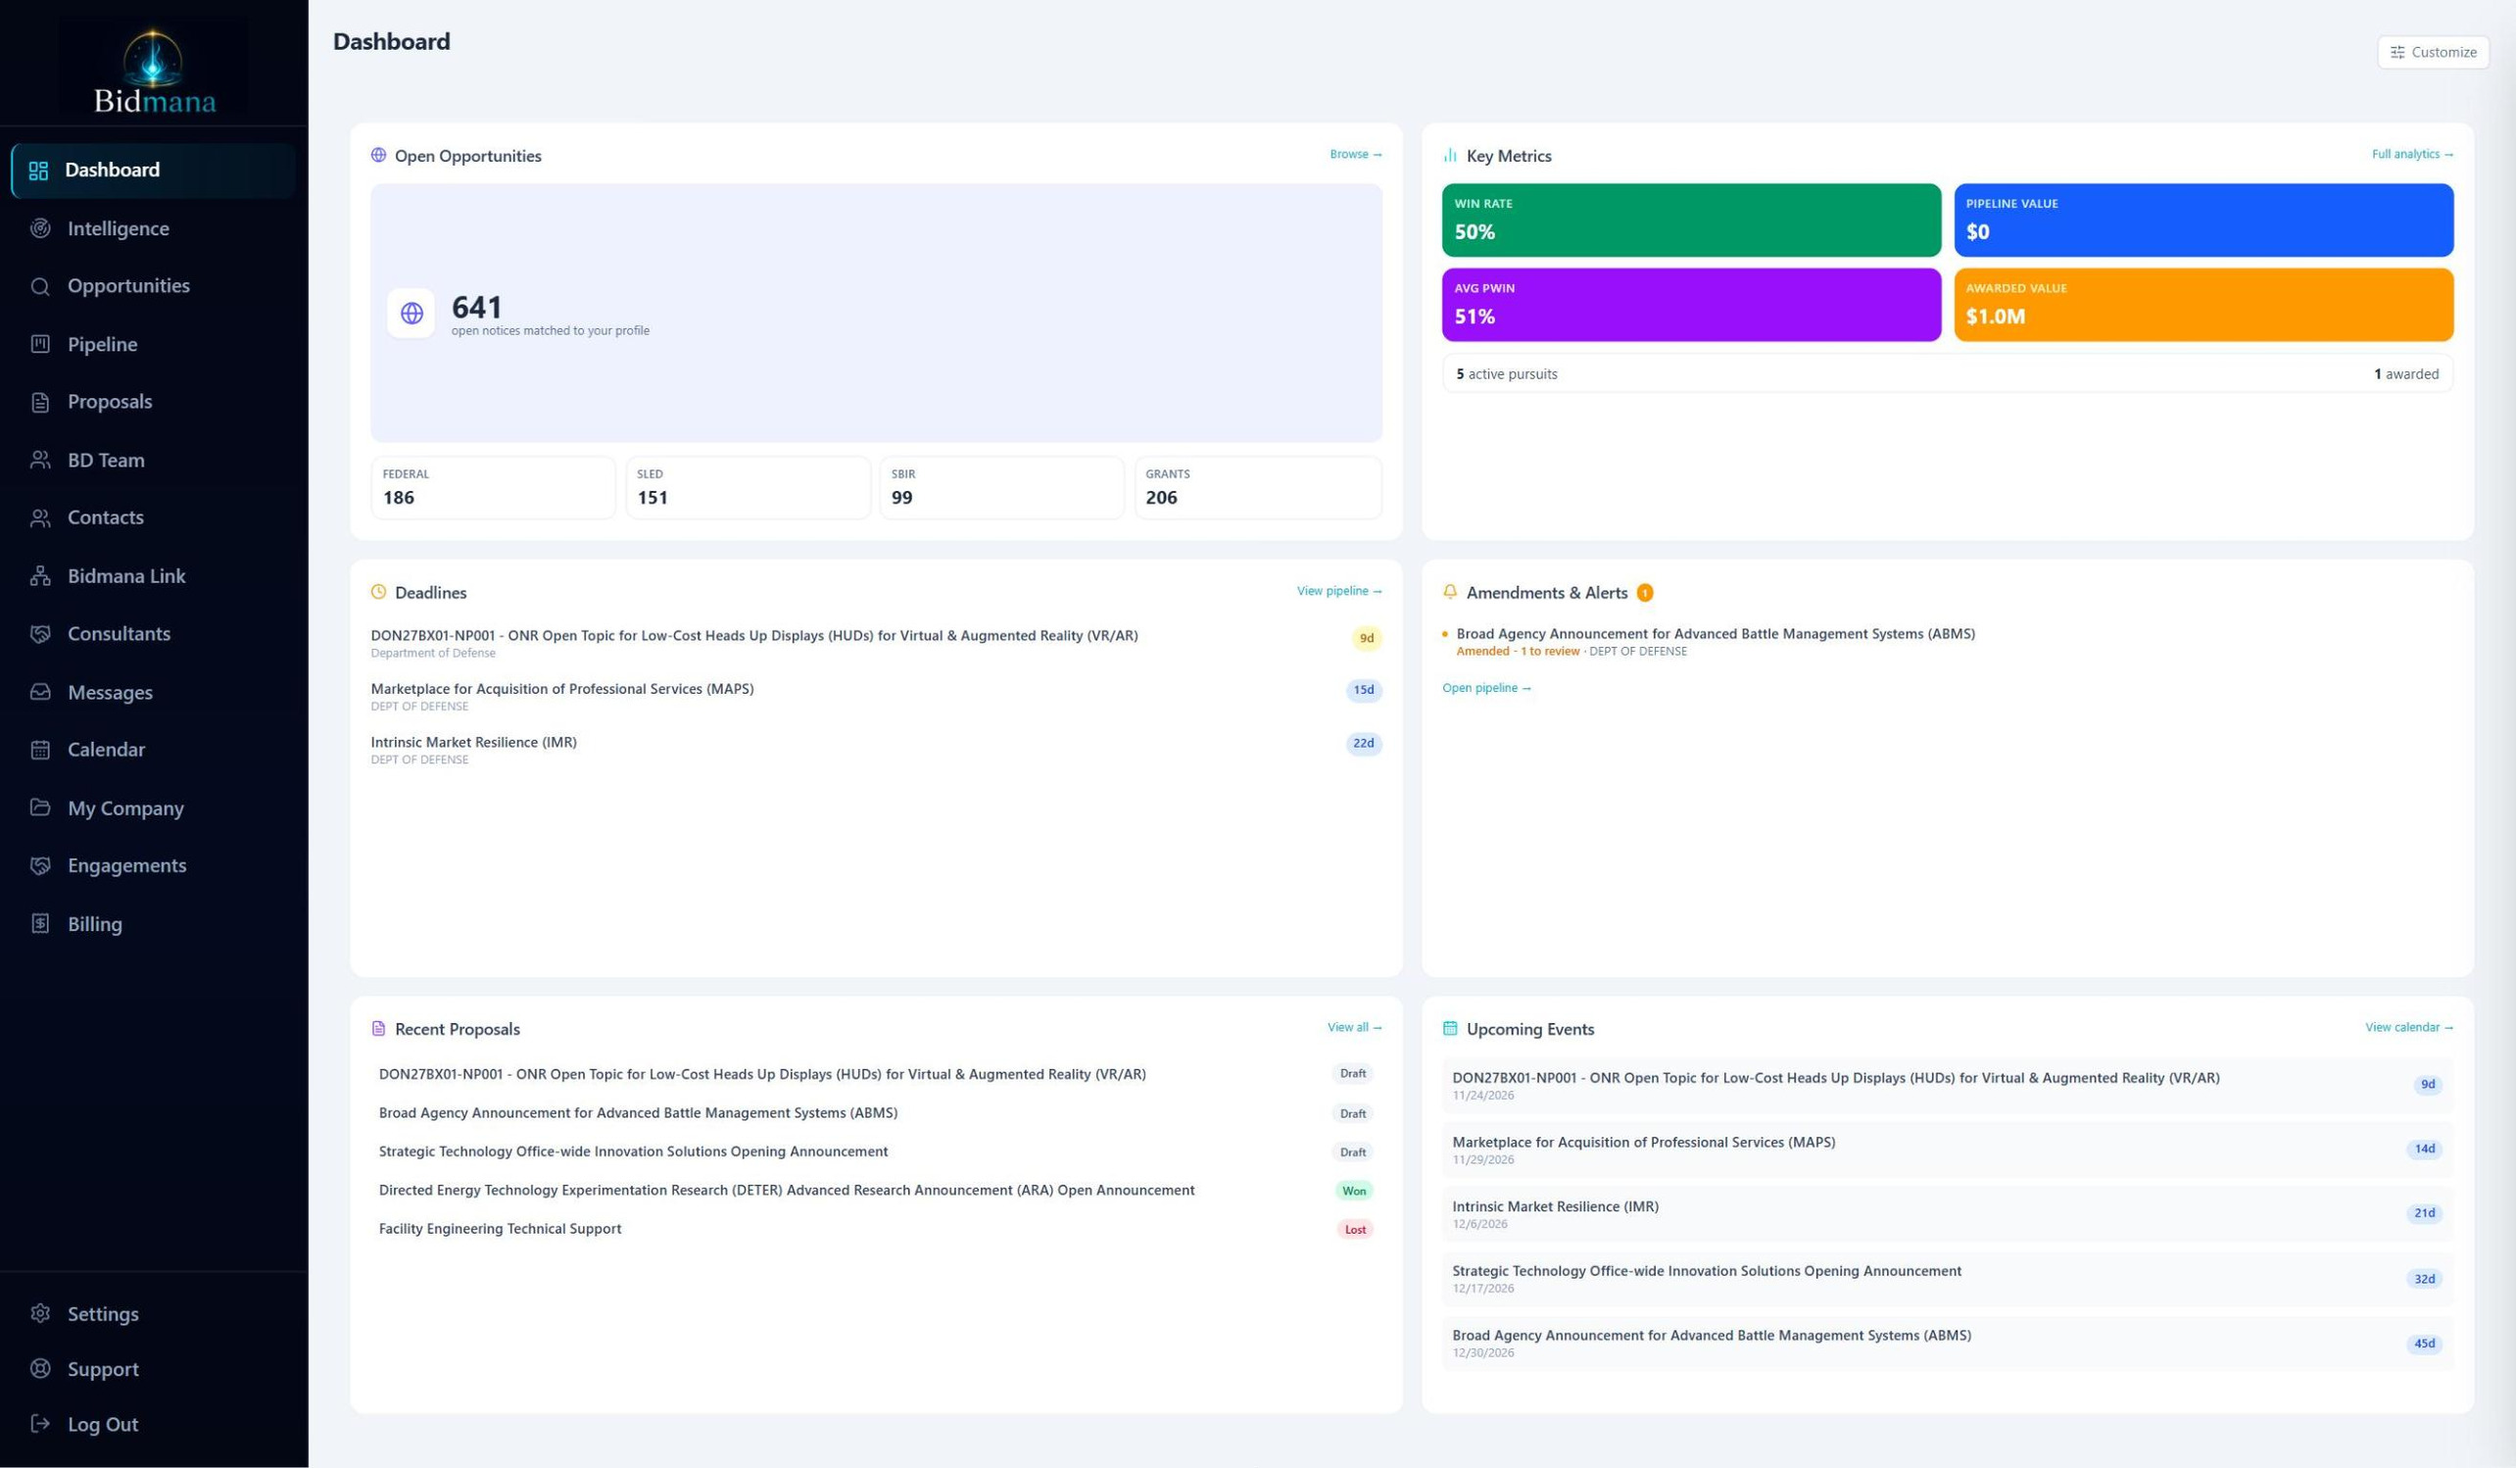
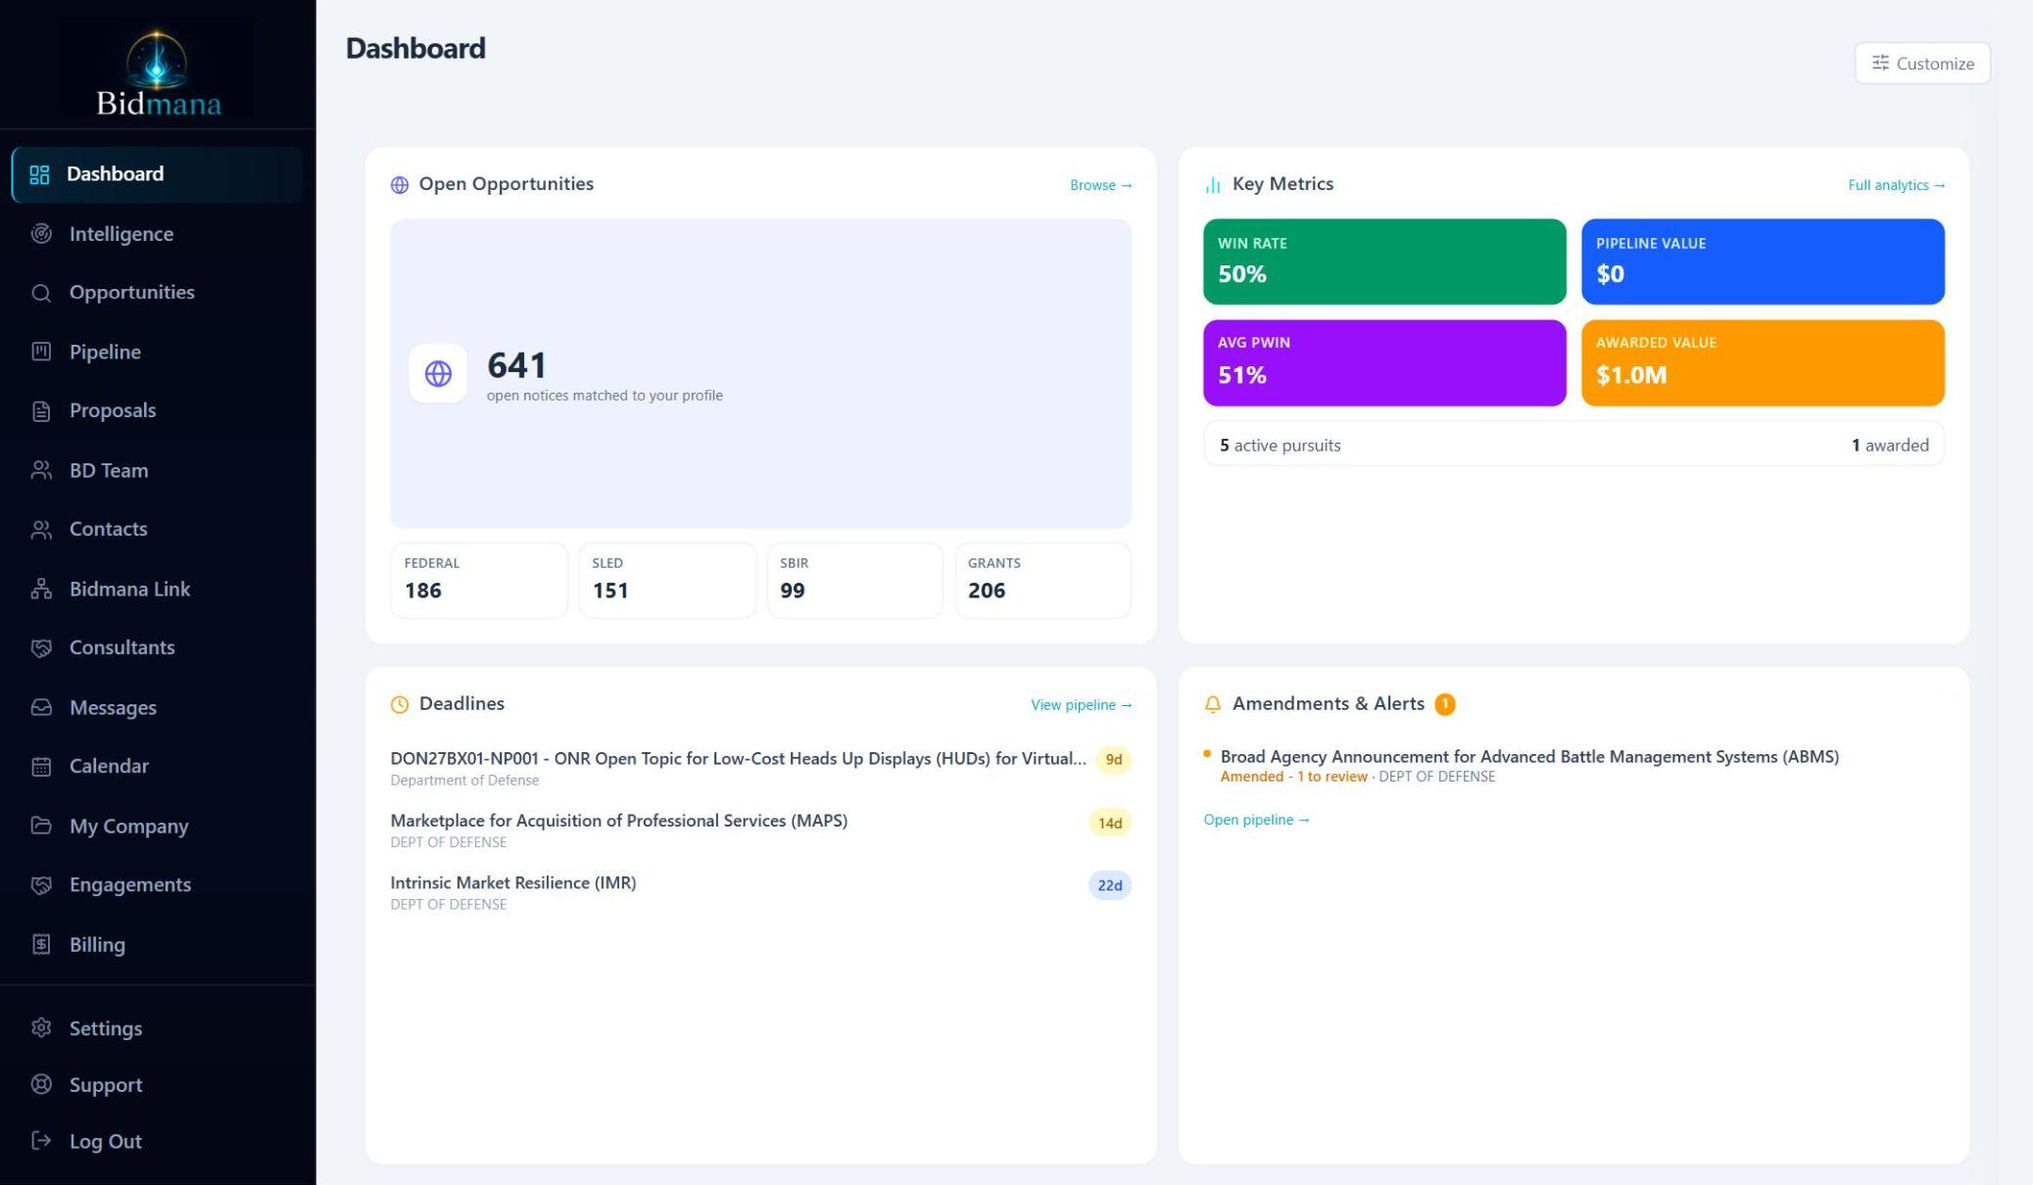
Showcase: screenshots retaken with the app at the size the site shows it, so the text is full size and crisp

diff --git a/index.html b/index.html
@@ -91,19 +91,19 @@
         </div>
         <div class="shot-screens">
           <figure class="shot-screen is-active" id="shot-dashboard" role="tabpanel" aria-labelledby="tab-dashboard">
-            <img src="assets/showcase/dashboard.jpg?v=20261116x3" alt="The Bidmana dashboard on one screen: open opportunities matched to the company, key metrics, deadlines, amendment alerts, recent proposals and upcoming events" loading="lazy" width="1284" height="749" />
+            <img src="assets/showcase/dashboard.jpg?v=20261116x4" alt="The Bidmana dashboard: open opportunities matched to the company, key metrics, deadlines and amendment alerts" loading="lazy" width="2075" height="1210" />
           </figure>
           <figure class="shot-screen" id="shot-intelligence" role="tabpanel" aria-labelledby="tab-intelligence" hidden>
-            <img src="assets/showcase/intelligence.jpg?v=20261116x3" alt="Intelligence analytics on one screen: win rate, pipeline by stage, predicted versus actual win probability, score distribution and monthly pipeline adds" loading="lazy" width="1284" height="749" />
+            <img src="assets/showcase/intelligence.jpg?v=20261116x4" alt="Intelligence analytics: win rate, pipeline value and win probability, win rate by agency, pipeline by stage, and predicted versus actual win probability" loading="lazy" width="2075" height="1210" />
           </figure>
           <figure class="shot-screen" id="shot-opportunities" role="tabpanel" aria-labelledby="tab-opportunities" hidden>
-            <img src="assets/showcase/opportunities.jpg?v=20261116x3" alt="Opportunity search results with fit scores, estimated values, due dates and one-click add to pipeline" loading="lazy" width="1284" height="749" />
+            <img src="assets/showcase/opportunities.jpg?v=20261116x4" alt="Opportunity search results with fit scores, estimated values, due dates and one-click add to pipeline" loading="lazy" width="2075" height="1210" />
           </figure>
           <figure class="shot-screen" id="shot-pipeline" role="tabpanel" aria-labelledby="tab-pipeline" hidden>
-            <img src="assets/showcase/pipeline.jpg?v=20261116x3" alt="The pipeline board: pursuits moving from Tracking through Qualifying and Pursuing to Proposal and Submitted, each with its files, win probability and due date" loading="lazy" width="1284" height="749" />
+            <img src="assets/showcase/pipeline.jpg?v=20261116x4" alt="The pipeline board: pursuits moving from Tracking through Qualifying and Pursuing to Proposal and Submitted, each with its files, win probability and due date" loading="lazy" width="2075" height="1210" />
           </figure>
           <figure class="shot-screen" id="shot-proposal" role="tabpanel" aria-labelledby="tab-proposal" hidden>
-            <img src="assets/showcase/proposal.jpg?v=20261116x3" alt="The proposal workspace: the Word-style editor open on a proposal's cover page, with document status and the AI assistant beside it" loading="lazy" width="1284" height="749" />
+            <img src="assets/showcase/proposal.jpg?v=20261116x4" alt="The proposal workspace: the Word-style editor open on a proposal's cover page, with document status and the AI assistant beside it" loading="lazy" width="2075" height="1210" />
           </figure>
         </div>
       </div>
